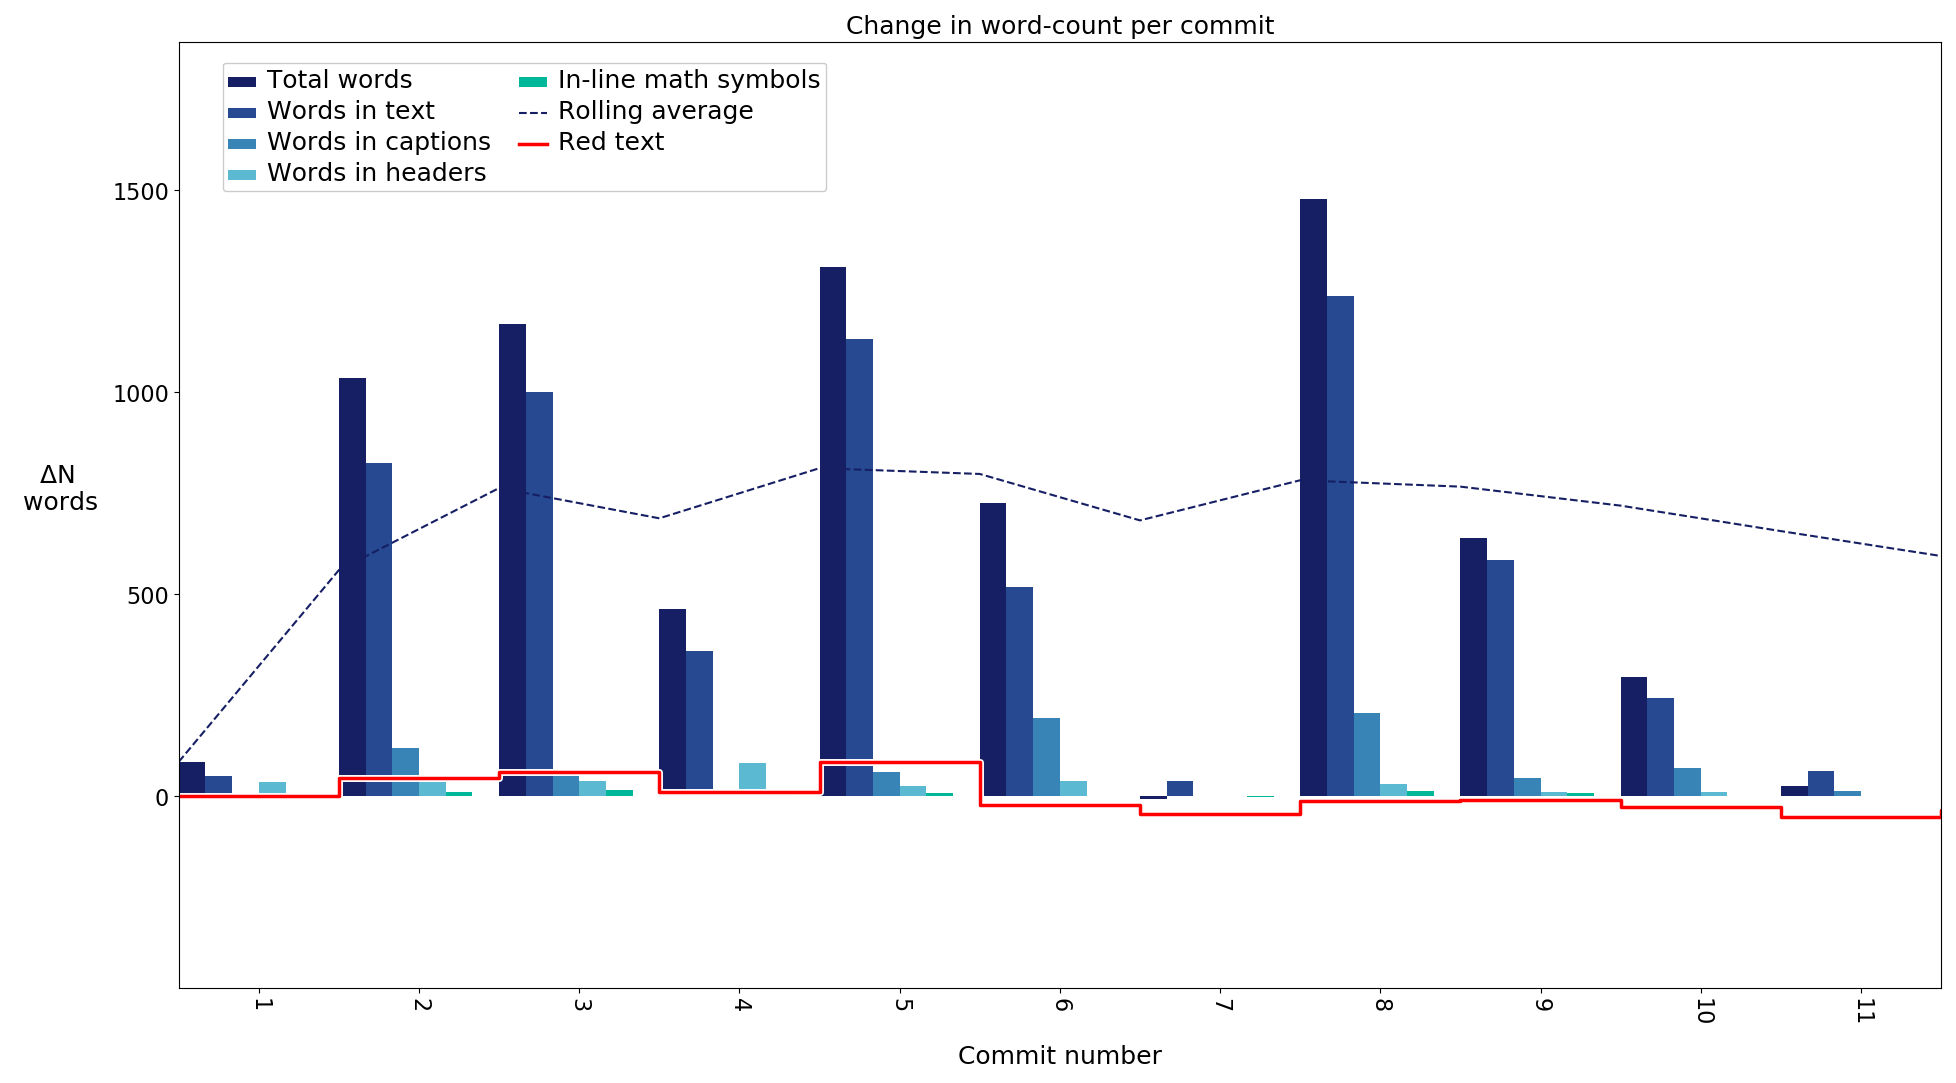
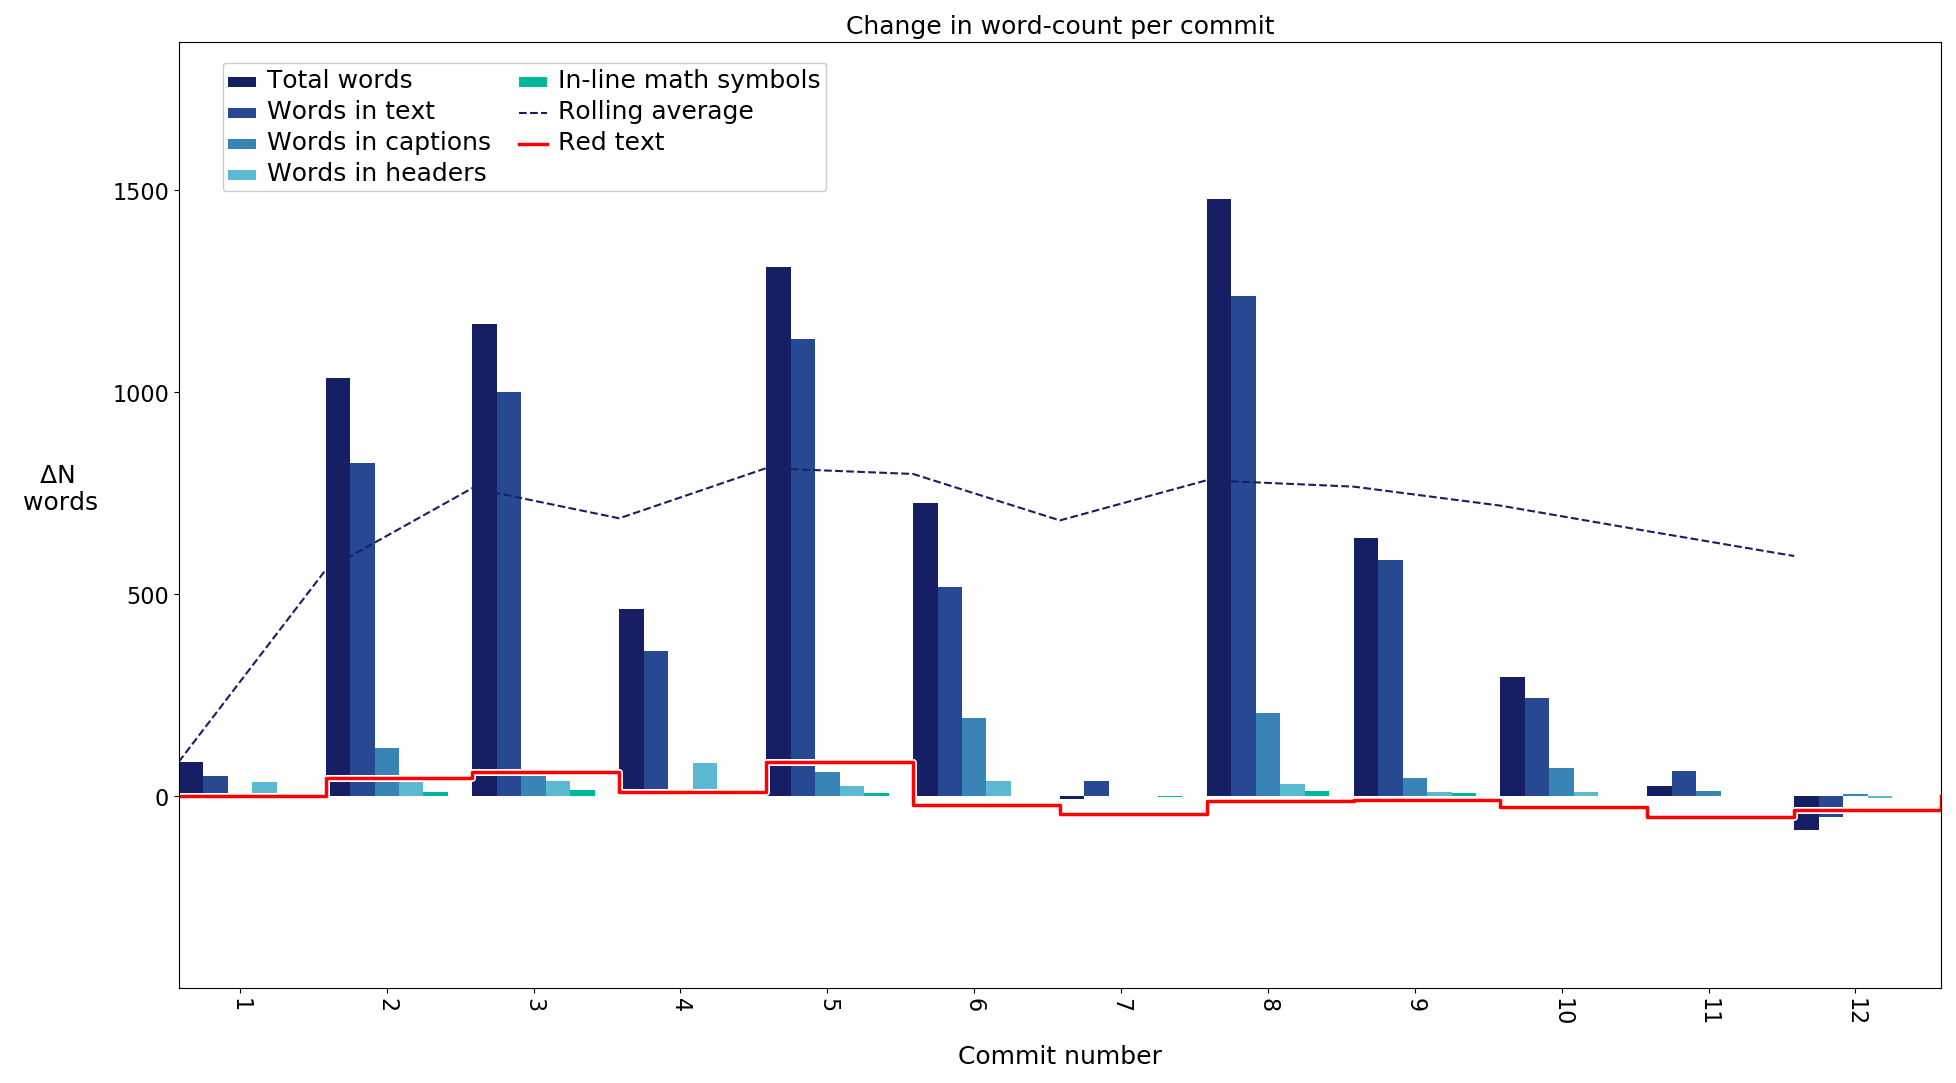
fix x-axis on per-commit plots, re-make example figures

diff --git a/scripts/plotHelpers.py b/scripts/plotHelpers.py
@@ -110,7 +110,10 @@ def make_graph_by_commit(ax,yslices_uns,ylabels_uns,xslice,
     if logy: ax.set_yscale("log")     
     ax.set_title(title,fontsize=18)
     ax.set_xlabel("Commit number",fontsize=18,labelpad=13)
-    ax.set_xticks(xslice.iloc[1:]+0.5)
+    if percommit:
+        ax.set_xticks(xslice.iloc[1:]+(0.5*(1-xoffset)))
+    else:
+        ax.set_xticks(xslice.iloc[1:]+0.5)
     ax.set_xticklabels(xslice.iloc[1:],fontsize=16,rotation=270)
     ax.set_ylabel(trackable,fontsize=18,rotation=0,labelpad=40)
     ax.tick_params(axis='y', which='major', labelsize=16)
@@ -133,7 +136,10 @@ def make_graph_by_commit(ax,yslices_uns,ylabels_uns,xslice,
             add_annotation(ax,redtext[1],redtext[0],"red",offset=1,total=slicetot,logy=logy)
 
     else:
-        ax.set_xlim([xslice.iloc[1],(xslice.iloc[-1])]) #Fill x-axis
+        if percommit:
+            ax.set_xlim([xslice.iloc[1],(xslice.iloc[-1]+1)]) #Fill x-axis
+        else:
+            ax.set_xlim([xslice.iloc[1],(xslice.iloc[-1])]) #Fill x-axis
 
             
     return None
